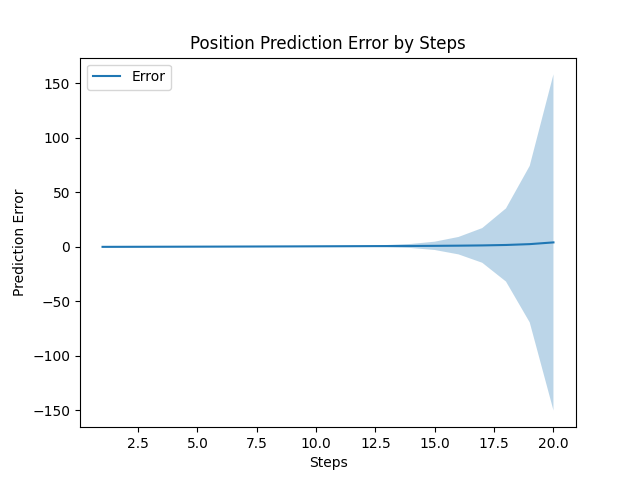
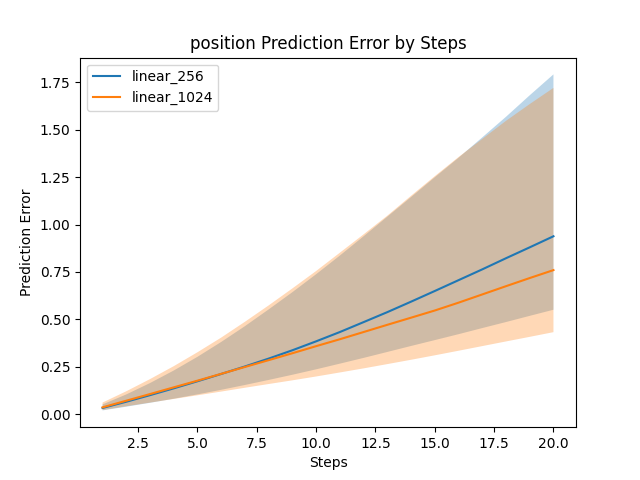
fix log scale of plots

diff --git a/scripts/evaluate.py b/scripts/evaluate.py
@@ -20,40 +20,45 @@ def euclidean_distance(output, target):
 def error_plot(
         x: dict, 
         y: dict, 
-        stddev: dict, 
+        quantiles_75: dict,
+        quantiles_25: dict, 
         x_scale: int = 49, 
         model_name: str = "", 
         error_name: str = "", 
         log_scale: bool = False
     ):
 
-    # Log scaling
-    if log_scale:
-        y = copy.deepcopy(y)
-        stddev = copy.deepcopy(stddev)
-        for model_name, error in y.items():
-            std_dev = stddev[model_name]
-            y[model_name] = np.log10(error)
-            stddev[model_name] = np.log10(std_dev)
+    # # Log scaling
+    # if log_scale:
+    #     y = copy.deepcopy(y)
+    #     stddev = copy.deepcopy(stddev)
+    #     for model_name, error in y.items():
+    #         std_dev = stddev[model_name]
+    #         y[model_name] = np.log10(error)
+    #         stddev[model_name] = np.log10(std_dev)
 
     # Create plots
     for model_name, error in y.items():
-        std_dev = stddev[model_name]
+        # std_dev = stddev[model_name]
 
         plt.plot(steps[model_name][0:x_scale], error[0:x_scale], label=model_name)
-        lower_bounds = np.subtract(error[0:x_scale], std_dev[0:x_scale])
-        upper_bounds = np.add(error[0:x_scale], std_dev[0:x_scale])
-        plt.fill_between(steps[model_name][0:x_scale], lower_bounds, upper_bounds, alpha=0.3)
+        # lower_bounds = np.subtract(error[0:x_scale], std_dev[0:x_scale])
+        # upper_bounds = np.add(error[0:x_scale], std_dev[0:x_scale])
+        lower_bounds = quantiles_25
+        upper_bounds = quantiles_75
+        plt.fill_between(steps[model_name][0:x_scale], lower_bounds[model_name][0:x_scale], upper_bounds[model_name][0:x_scale], alpha=0.3)
 
     log_label = "Log " if log_scale else ""
     plt.xlabel("Steps")
     plt.ylabel("Prediction Error")
     plt.title(f"{log_label}{error_name} Prediction Error by Steps")
+    if log_scale:
+        plt.yscale('log')
     plt.legend()
 
     # Save the plot
     log_label = "log_" if log_scale else ""
-    plot_filename = f"{log_label}{error_name}_error_by_steps.png"
+    plot_filename = f"{log_label}{error_name}_error_by_steps_{x_scale}.png"
     plt.savefig(plot_filename)
     print(f"Plot saved to {plot_filename}")
     plt.clf()
@@ -71,128 +76,146 @@ if __name__ == "__main__":
     eval_data = copy.deepcopy(models)
     eval_name = "LinearModelSize"
 
-    # Load test dataset from file
-    test_df = load_test_dataset()
+    # # Load test dataset from file
+    # test_df = load_test_dataset()
 
-    # Evaluate model(s)
-    for model_name, model_cfg in models.items():
-        # Load the trained model
-        model = model_cfg[0](input_size, output_size)
-        model.load_state_dict(torch.load(model_cfg[1]))
-        model.eval()
+    # # Evaluate model(s)
+    # for model_name, model_cfg in models.items():
+    #     # Load the trained model
+    #     model = model_cfg[0](input_size, output_size)
+    #     model.load_state_dict(torch.load(model_cfg[1]))
+    #     model.eval()
 
-        # Evaluate the model
-        error_by_steps = {}
-        position_error_by_steps = {}
-        velocity_error_by_steps = {}
-        inspected_points_error_by_steps = {}
-        uninspected_points_error_by_steps = {}
-        sun_angle_error_by_steps = {}
+    #     # Evaluate the model
+    #     error_by_steps = {}
+    #     position_error_by_steps = {}
+    #     velocity_error_by_steps = {}
+    #     inspected_points_error_by_steps = {}
+    #     uninspected_points_error_by_steps = {}
+    #     sun_angle_error_by_steps = {}
 
-        with torch.no_grad():
-            for trajectory in test_df['Trajectory']:
-                # Create multistep predictions for each trajectory in test dataset
-                i = 0
-                final_state_index = len(trajectory)-1
-                multistep_predictions = {}
-                target_states = {}
-                # final_state = trajectory[final_state_index][0:11]
-                while i < final_state_index:
-                    # predicted_trajectory = []
-                    state_action = torch.tensor(trajectory[i], dtype=torch.float32)
-                    future_actions = [state_action[-3:] for state_action in trajectory[i+1:final_state_index]]
+    #     with torch.no_grad():
+    #         for trajectory in test_df['Trajectory']:
+    #             # Create multistep predictions for each trajectory in test dataset
+    #             i = 0
+    #             final_state_index = len(trajectory)-1
+    #             multistep_predictions = {}
+    #             target_states = {}
+    #             # final_state = trajectory[final_state_index][0:11]
+    #             while i < final_state_index:
+    #                 # predicted_trajectory = []
+    #                 state_action = torch.tensor(trajectory[i], dtype=torch.float32)
+    #                 future_actions = [state_action[-3:] for state_action in trajectory[i+1:final_state_index]]
 
-                    n = final_state_index - i
-                    for k in range(n):
-                        if k > 49:
-                            # Model error compounds exponentially, don't waste compute on long range
-                            break
-                        # Use the model to predict n steps into the future
-                        # Where n is the number of timesteps between the input and target output in the trajectory
-                        predicted_state = model(state_action)
-                        # store model's prediction and ground truth target state
-                        multistep_predictions[(i,i+k+1)] = predicted_state
-                        target_states[(i,i+k+1)] = trajectory[i+k+1][0:12]
-                        # Concatentate model's predicted state with next taken action
-                        if k < n - 1:
-                            state_action = torch.tensor(np.concatenate((predicted_state,future_actions[k])), dtype=torch.float32)
-                    i += 1
-                for k,v in multistep_predictions.items():
-                    num_steps = k[1]-k[0]
-                    output = v.numpy()
-                    total_dist = euclidean_distance(output, target_states[k])
-                    position_dist = euclidean_distance(output[0:3], target_states[k][0:3])
-                    velocity_dist = euclidean_distance(output[3:6], target_states[k][3:6])
-                    inspected_points_dist = euclidean_distance(output[6], target_states[k][6])
-                    uninspected_pointstotal_dist = euclidean_distance(output[7:10], target_states[k][7:10])
-                    sun_angle_dist = euclidean_distance(output[10:], target_states[k][10:])
-                    if num_steps in error_by_steps:
-                        error_by_steps[num_steps].append(total_dist)
-                        position_error_by_steps[num_steps].append(position_dist)
-                        velocity_error_by_steps[num_steps].append(velocity_dist)
-                        inspected_points_error_by_steps[num_steps].append(inspected_points_dist)
-                        uninspected_points_error_by_steps[num_steps].append(uninspected_pointstotal_dist)
-                        sun_angle_error_by_steps[num_steps].append(sun_angle_dist)
-                    else:
-                        error_by_steps[num_steps] = [total_dist]
-                        position_error_by_steps[num_steps] = [position_dist]
-                        velocity_error_by_steps[num_steps] = [velocity_dist]
-                        inspected_points_error_by_steps[num_steps] = [inspected_points_dist]
-                        uninspected_points_error_by_steps[num_steps] = [uninspected_pointstotal_dist]
-                        sun_angle_error_by_steps[num_steps] = [sun_angle_dist]
+    #                 n = final_state_index - i
+    #                 for k in range(n):
+    #                     if k > 49:
+    #                         # Model error compounds exponentially, don't waste compute on long range
+    #                         break
+    #                     # Use the model to predict n steps into the future
+    #                     # Where n is the number of timesteps between the input and target output in the trajectory
+    #                     predicted_state = model(state_action)
+    #                     # store model's prediction and ground truth target state
+    #                     multistep_predictions[(i,i+k+1)] = predicted_state
+    #                     target_states[(i,i+k+1)] = trajectory[i+k+1][0:12]
+    #                     # Concatentate model's predicted state with next taken action
+    #                     if k < n - 1:
+    #                         state_action = torch.tensor(np.concatenate((predicted_state,future_actions[k])), dtype=torch.float32)
+    #                 i += 1
+    #             for k,v in multistep_predictions.items():
+    #                 num_steps = k[1]-k[0]
+    #                 output = v.numpy()
+    #                 total_dist = euclidean_distance(output, target_states[k])
+    #                 position_dist = euclidean_distance(output[0:3], target_states[k][0:3])
+    #                 velocity_dist = euclidean_distance(output[3:6], target_states[k][3:6])
+    #                 inspected_points_dist = euclidean_distance(output[6], target_states[k][6])
+    #                 uninspected_pointstotal_dist = euclidean_distance(output[7:10], target_states[k][7:10])
+    #                 sun_angle_dist = euclidean_distance(output[10:], target_states[k][10:])
+    #                 if num_steps in error_by_steps:
+    #                     error_by_steps[num_steps].append(total_dist)
+    #                     position_error_by_steps[num_steps].append(position_dist)
+    #                     velocity_error_by_steps[num_steps].append(velocity_dist)
+    #                     inspected_points_error_by_steps[num_steps].append(inspected_points_dist)
+    #                     uninspected_points_error_by_steps[num_steps].append(uninspected_pointstotal_dist)
+    #                     sun_angle_error_by_steps[num_steps].append(sun_angle_dist)
+    #                 else:
+    #                     error_by_steps[num_steps] = [total_dist]
+    #                     position_error_by_steps[num_steps] = [position_dist]
+    #                     velocity_error_by_steps[num_steps] = [velocity_dist]
+    #                     inspected_points_error_by_steps[num_steps] = [inspected_points_dist]
+    #                     uninspected_points_error_by_steps[num_steps] = [uninspected_pointstotal_dist]
+    #                     sun_angle_error_by_steps[num_steps] = [sun_angle_dist]
 
-        # Calculate the mean and standard deviation
-        steps = []
-        means = []
-        std_devs = []
-        position_means = []
-        position_std_devs = []
-        velocity_means = []
-        velocity_std_devs = []
-        inspected_points_means = []
-        inspected_points_std_devs = []
-        uninspected_points_means = []
-        uninspected_points_std_devs = []
-        sun_angle_means = []
-        sun_angle_std_devs = []
-        for i in range(1, len(error_by_steps)):
-            means.append(np.mean(error_by_steps[i]))
-            std_devs.append(np.std(error_by_steps[i]))
-            steps.append(i)
-            position_means.append(np.mean(position_error_by_steps[i]))
-            position_std_devs.append(np.std(position_error_by_steps[i]))
-            velocity_means.append(np.mean(velocity_error_by_steps[i]))
-            velocity_std_devs.append(np.std(velocity_error_by_steps[i]))
-            inspected_points_means.append(np.mean(inspected_points_error_by_steps[i]))
-            inspected_points_std_devs.append(np.std(inspected_points_error_by_steps[i]))
-            uninspected_points_means.append(np.mean(uninspected_points_error_by_steps[i]))
-            uninspected_points_std_devs.append(np.std(uninspected_points_error_by_steps[i]))
-            sun_angle_means.append(np.mean(sun_angle_error_by_steps[i]))
-            sun_angle_std_devs.append(np.std(sun_angle_error_by_steps[i]))
+    #     # Calculate the mean and standard deviation
+    #     steps = []
+    #     medians = []
+    #     quantiles_75 = []
+    #     quantiles_25 = []
+    #     position_medians = []
+    #     position_quantiles_75 = []
+    #     position_quantiles_25 = []
+    #     velocity_medians = []
+    #     velocity_quantiles_75 = []
+    #     velocity_quantiles_25 = []
+    #     inspected_points_medians = []
+    #     inspected_points_quantiles_75 = []
+    #     inspected_points_quantiles_25 = []
+    #     uninspected_points_medians = []
+    #     uninspected_points_quantiles_75 = []
+    #     uninspected_points_quantiles_25 = []
+    #     sun_angle_medians = []
+    #     sun_angle_quantiles_75 = []
+    #     sun_angle_quantiles_25 = []
+    #     for i in range(1, len(error_by_steps)):
+    #         medians.append(np.quantile(error_by_steps[i], 0.50))
+    #         quantiles_75.append(np.quantile(error_by_steps[i], 0.75))
+    #         quantiles_25.append(np.quantile(error_by_steps[i], 0.25))
+    #         steps.append(i)
+    #         position_medians.append(np.quantile(position_error_by_steps[i], 0.50))
+    #         position_quantiles_75.append(np.quantile(position_error_by_steps[i], 0.75))
+    #         position_quantiles_25.append(np.quantile(position_error_by_steps[i], 0.25))
+    #         velocity_medians.append(np.quantile(velocity_error_by_steps[i], 0.50))
+    #         velocity_quantiles_75.append(np.quantile(velocity_error_by_steps[i], 0.75))
+    #         velocity_quantiles_25.append(np.quantile(velocity_error_by_steps[i], 0.25))
+    #         inspected_points_medians.append(np.quantile(inspected_points_error_by_steps[i], 0.50))
+    #         inspected_points_quantiles_75.append(np.quantile(inspected_points_error_by_steps[i], 0.75))
+    #         inspected_points_quantiles_25.append(np.quantile(inspected_points_error_by_steps[i], 0.25))
+    #         uninspected_points_medians.append(np.quantile(uninspected_points_error_by_steps[i], 0.50))
+    #         uninspected_points_quantiles_75.append(np.quantile(uninspected_points_error_by_steps[i], 0.75))
+    #         uninspected_points_quantiles_25.append(np.quantile(uninspected_points_error_by_steps[i], 0.25))
+    #         sun_angle_medians.append(np.quantile(sun_angle_error_by_steps[i], 0.50))
+    #         sun_angle_quantiles_75.append(np.quantile(sun_angle_error_by_steps[i], 0.75))
+    #         sun_angle_quantiles_25.append(np.quantile(sun_angle_error_by_steps[i], 0.25))
 
-        # Store eval results
-        eval_data[model_name] = {
-            "steps": steps,
-            "means": means,
-            "std_devs": std_devs,
-            "position_means": position_means,
-            "position_std_devs": position_std_devs,
-            "velocity_means": velocity_means,
-            "velocity_std_devs": velocity_std_devs,
-            "inspected_points_means": inspected_points_means,
-            "inspected_points_std_devs": inspected_points_std_devs,
-            "uninspected_points_means": uninspected_points_means,
-            "uninspected_points_std_devs": uninspected_points_std_devs,
-            "sun_angle_means": sun_angle_means,
-            "sun_angle_std_devs": sun_angle_std_devs,
-        }
+    #     # Store eval results
+    #     eval_data[model_name] = {
+    #         "steps": steps,
+    #         "medians": medians,
+    #         "quantiles_75": quantiles_75,
+    #         "quantiles_25": quantiles_25,
+    #         "position_medians": position_medians,
+    #         "position_quantiles_75": position_quantiles_75,
+    #         "position_quantiles_25": position_quantiles_25,
+    #         "velocity_medians": velocity_medians,
+    #         "velocity_quantiles_75": velocity_quantiles_75,
+    #         "velocity_quantiles_25": velocity_quantiles_25,
+    #         "inspected_points_medians": inspected_points_medians,
+    #         "inspected_points_quantiles_75": inspected_points_quantiles_75,
+    #         "inspected_points_quantiles_25": inspected_points_quantiles_25,
+    #         "uninspected_points_medians": uninspected_points_medians,
+    #         "uninspected_points_quantiles_75": uninspected_points_quantiles_75,
+    #         "uninspected_points_quantiles_25": uninspected_points_quantiles_25,
+    #         "sun_angle_medians": sun_angle_medians,
+    #         "sun_angle_quantiles_75": sun_angle_quantiles_75,
+    #         "sun_angle_quantiles_25": sun_angle_quantiles_25,
+    #     }
 
-    # Save out eval data
-    pickle.dump(eval_data, open(f'data/{eval_name}_eval_data.pkl', 'wb'))
+    # # Save out eval data
+    # pickle.dump(eval_data, open(f'data/{eval_name}_eval_data.pkl', 'wb'))
 
-    # # Read data from file
-    # with open(f'data/{eval_name}_eval_data.pkl', 'rb') as file:
-    #     eval_data = pickle.load(file)
+    # Read data from file
+    with open(f'data/{eval_name}_eval_data.pkl', 'rb') as file:
+        eval_data = pickle.load(file)
 
     # Configure plotting
     log_scale = [True, False]
@@ -211,13 +234,17 @@ if __name__ == "__main__":
         steps = {
             model_name: model_data["steps"] for model_name, model_data in eval_data.items()
         }
-        error_key = "means" if error_type == "total" else f"{error_type}_means"
-        std_devs_key = "std_devs" if error_type == "total" else f"{error_type}_std_devs"
+        error_key = "medians" if error_type == "total" else f"{error_type}_medians"
+        quantile_75_key = "quantiles_75" if error_type == "total" else f"{error_type}_quantiles_75"
+        quantile_25_key = "quantiles_25" if error_type == "total" else f"{error_type}_quantiles_25"
         error = {
             model_name: model_data[error_key] for model_name, model_data in eval_data.items()
         }
-        std_devs = {
-            model_name: model_data[std_devs_key] for model_name, model_data in eval_data.items()
+        quantiles_75 = {
+            model_name: model_data[quantile_75_key] for model_name, model_data in eval_data.items()
+        }
+        quantiles_25 = {
+            model_name: model_data[quantile_25_key] for model_name, model_data in eval_data.items()
         }
 
-        error_plot(steps, error, std_devs, x_scale=x_scale, error_name=error_type, log_scale=log_scale)
+        error_plot(steps, error, quantiles_75, quantiles_25, x_scale=x_scale, error_name=error_type, log_scale=log_scale)

diff --git a/scripts/train.py b/scripts/train.py
@@ -62,7 +62,7 @@ if __name__ == "__main__":
     output_size = 12
 
     # Initialize the network, loss function, and optimizer
-    model = MLP(input_size, output_size)
+    model = MLP256(input_size, output_size)
     criterion = nn.MSELoss()
     optimizer = optim.Adam(model.parameters(), lr=0.001)
 
